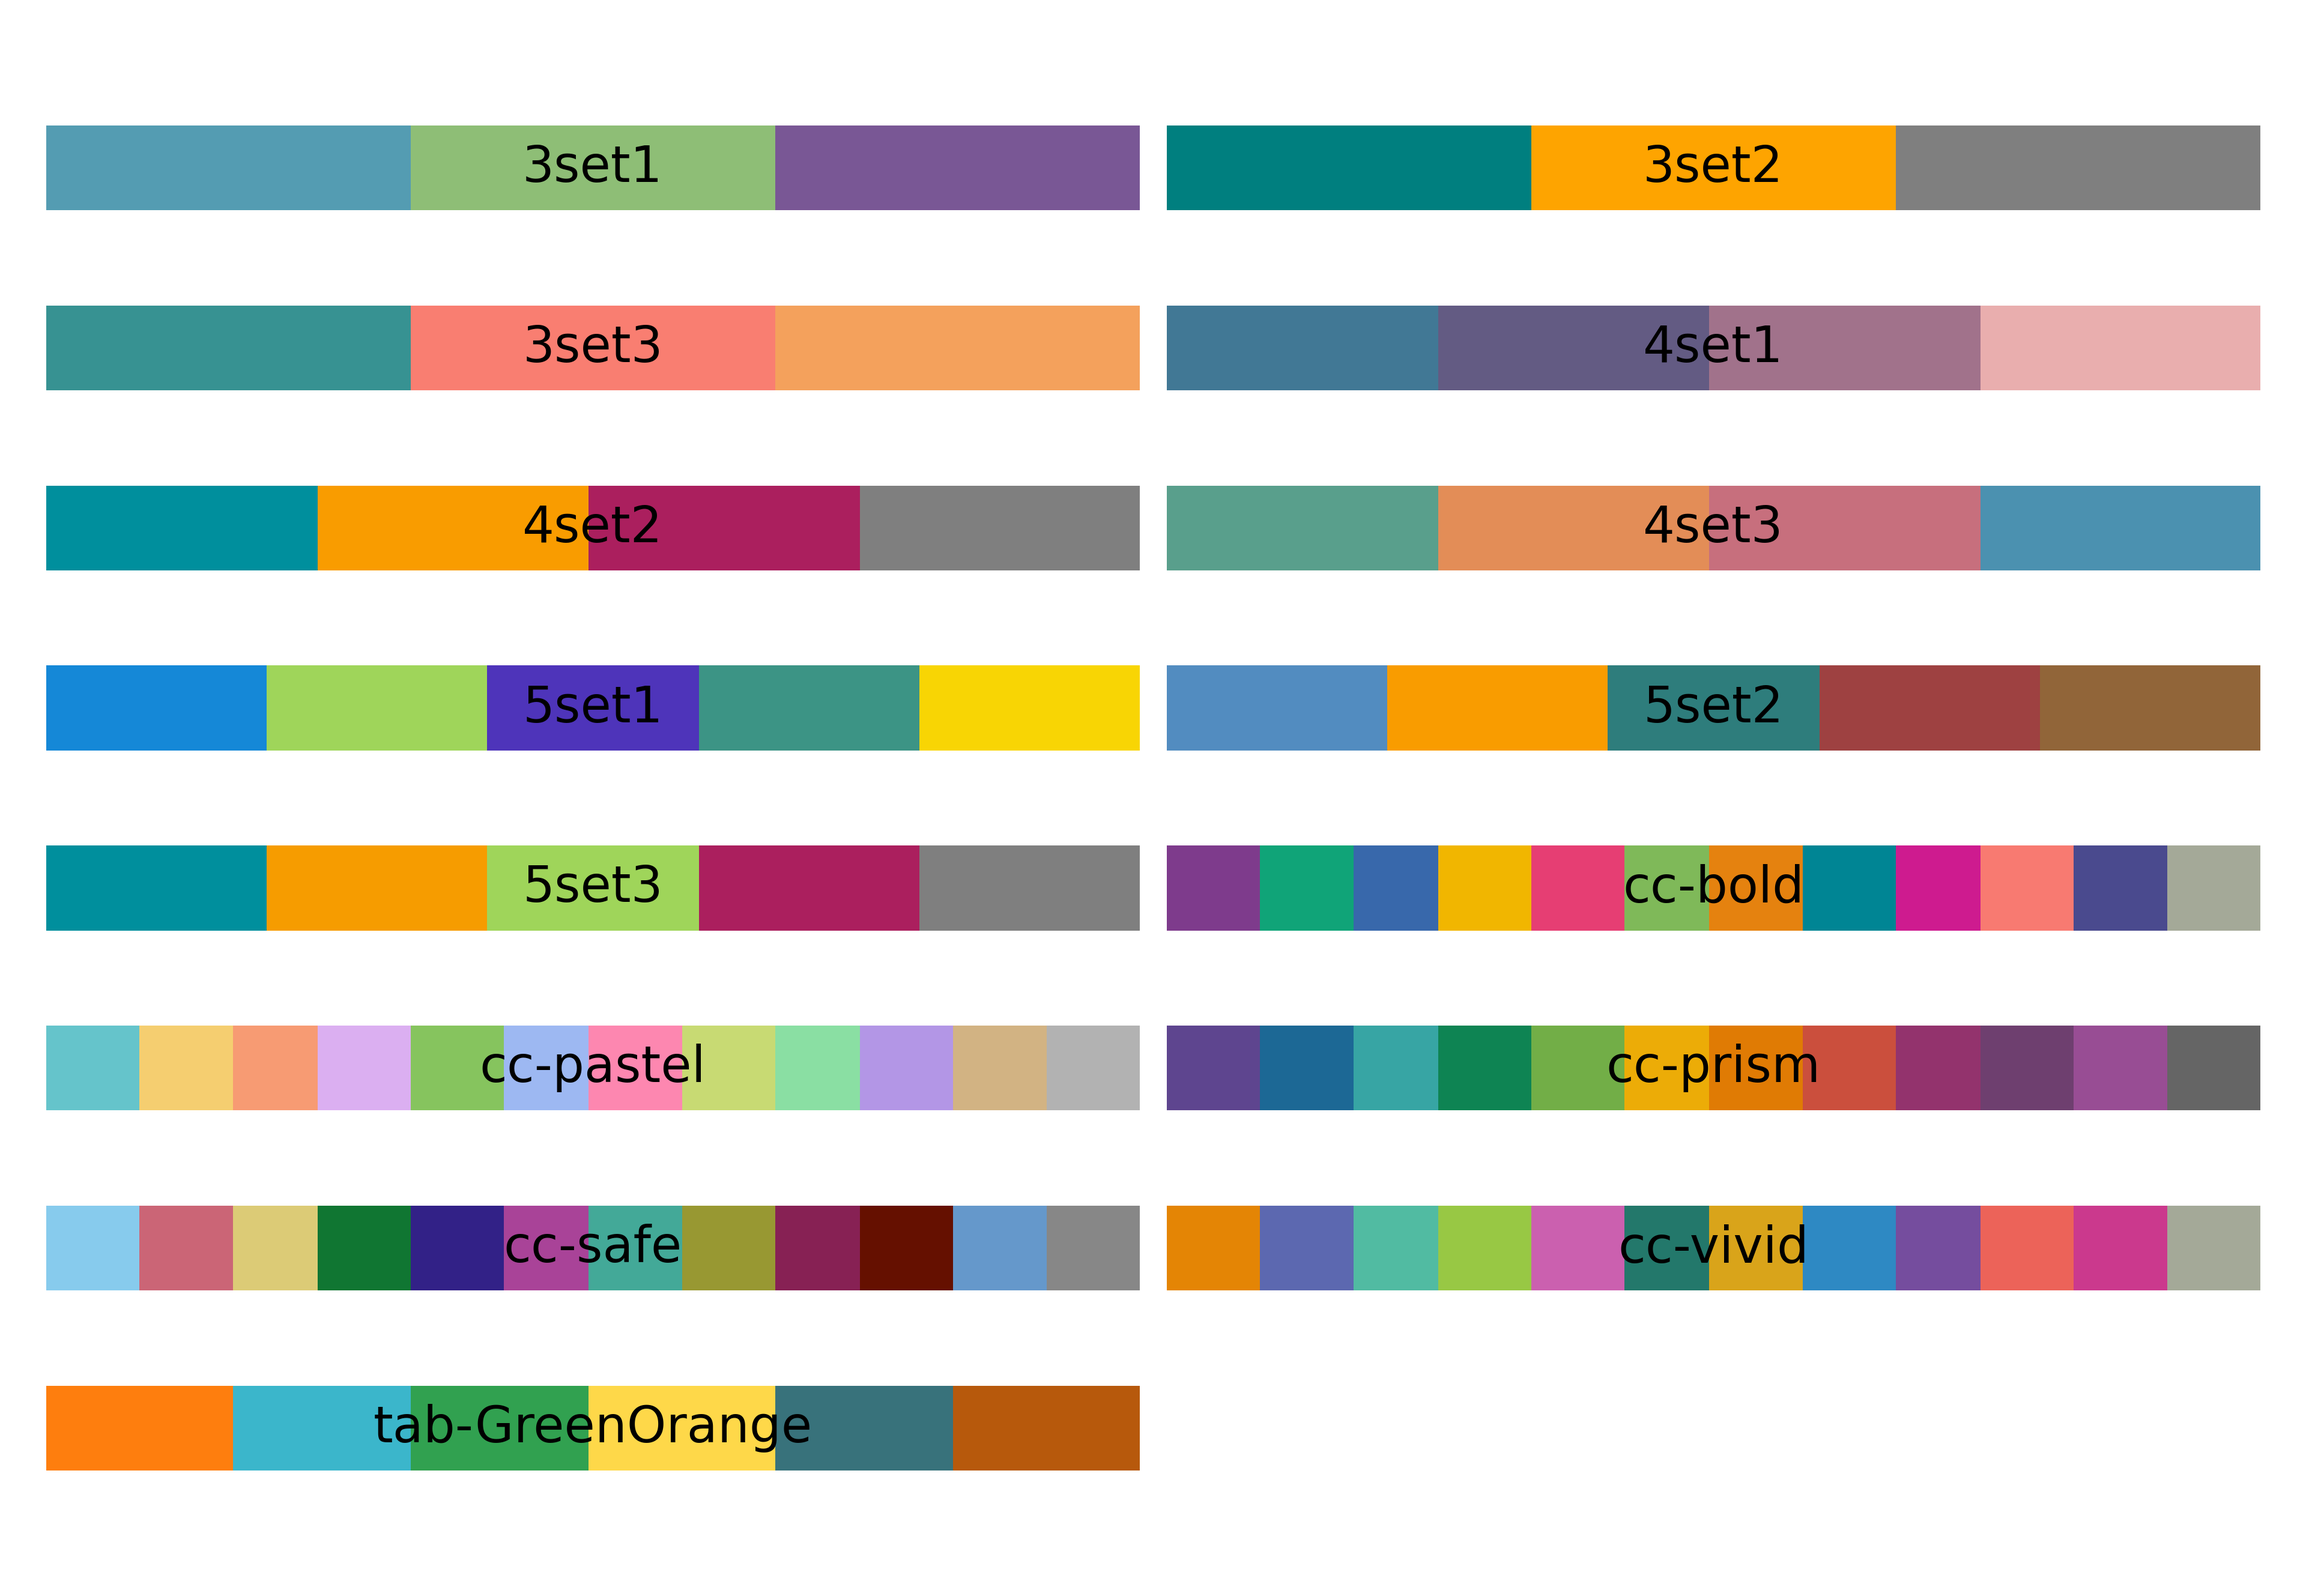
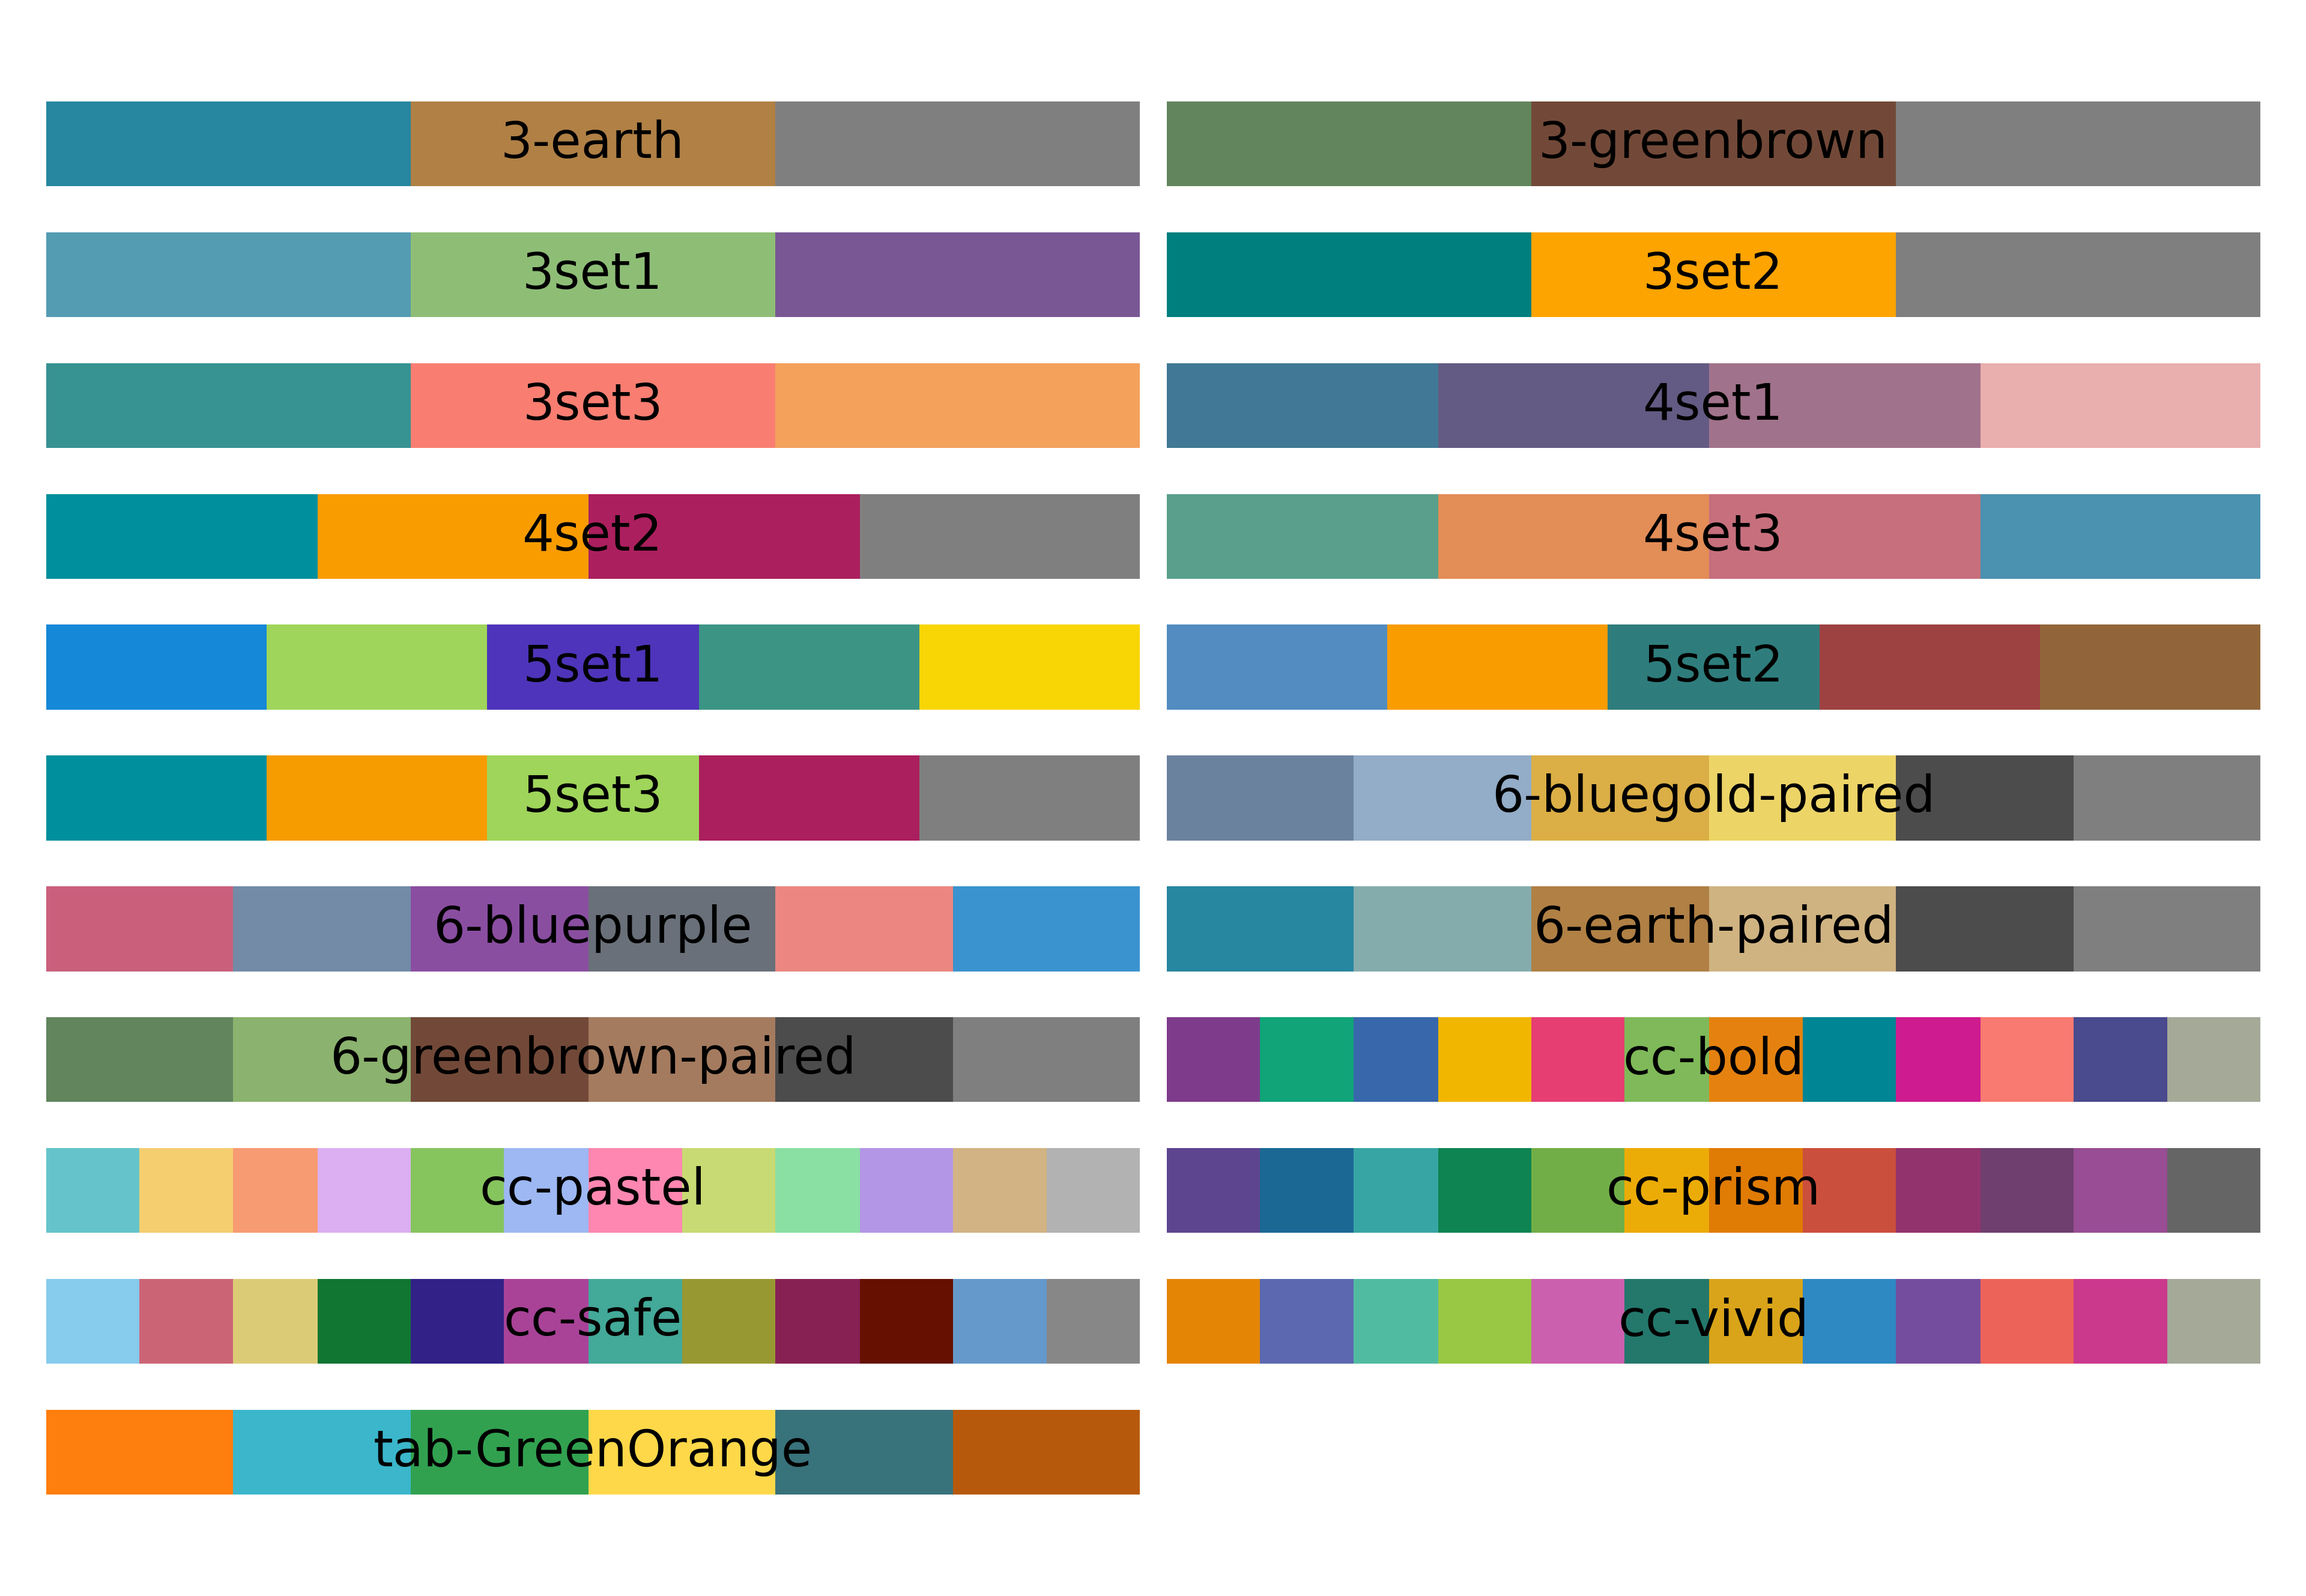
Add colour schemes

diff --git a/examples/make_greenbrown.py b/examples/make_greenbrown.py
@@ -1,0 +1,33 @@
+"""
+Test generating new colourschemes
+"""
+
+import numpy as np
+from matplotlib import pyplot as plt
+
+import colours
+
+cont_cmap = colours.get_colourmap('pl-green-brown-div')
+
+cc1 = cont_cmap(0.2)
+cc2 = cont_cmap(0.3)
+cc3 = cont_cmap(0.8)
+cc4 = cont_cmap(0.7)
+cc5 = 0.3*np.ones(4)
+cc6 = 0.5*np.ones(4)
+
+fig, ax = plt.subplots()
+xx = np.linspace(0, 1, 10)
+
+colours = np.array([cc1, cc2, cc3, cc4, cc5, cc6])
+colours[0] = colours[0]
+colours[:, -1] = 1
+
+print(colours)
+
+for i in range(colours.shape[0]):
+    ax.plot(xx, xx + np.random.random(xx.shape), color=colours[i])
+
+np.savetxt('../data/categorical/6-greenbrown-paired.txt', colours)
+np.savetxt('../data/categorical/3-greenbrown.txt', colours[np.array([0, 2, 5])])
+plt.show()

diff --git a/examples/make_bluepurple.py b/examples/make_bluepurple.py
@@ -1,0 +1,30 @@
+"""
+Test generating new colourschemes
+"""
+
+import numpy as np
+from matplotlib import pyplot as plt
+
+import colours
+
+cc1 = colours.get_colourmap('ccBurg')(0.5)
+cc2 = colours.get_colourmap('pl-blue-8')(0.5)
+cc3 = colours.get_colourmap('ccPurpOr')(0.8)
+cc4 = colours.get_colourmap('pl-blue-11')(0.8)
+cc5 = colours.get_colourmap('ccBurgYl')(0.35)
+cc6 = colours.get_colourmap('pl-blue-3')(0.3)
+
+fig, ax = plt.subplots()
+xx = np.linspace(0, 1, 10)
+
+colours = np.array([cc1, cc2, cc3, cc4, cc5, cc6])
+colours[0] = colours[0]
+colours[:, -1] = 1
+
+print(colours)
+
+for i in range(colours.shape[0]):
+    ax.plot(xx, xx + np.random.random(xx.shape), color=colours[i])
+
+np.savetxt('../data/categorical/6-bluepurple.txt', colours)
+plt.show()

diff --git a/examples/make_bluebrown.py b/examples/make_bluebrown.py
@@ -1,0 +1,33 @@
+"""
+Test generating new colourschemes
+"""
+
+import numpy as np
+from matplotlib import pyplot as plt
+
+import colours
+
+cont_cmap = colours.get_colourmap('ccEarth')
+
+cc1 = cont_cmap(1.0)
+cc2 = cont_cmap(0.8)
+cc3 = cont_cmap(0.1)
+cc4 = cont_cmap(0.3)
+cc5 = 0.3*np.ones(4)
+cc6 = 0.5*np.ones(4)
+
+fig, ax = plt.subplots()
+xx = np.linspace(0, 1, 10)
+
+colours = np.array([cc1, cc2, cc3, cc4, cc5, cc6])
+colours[0] = colours[0]
+colours[:, -1] = 1
+
+print(colours)
+
+for i in range(colours.shape[0]):
+    ax.plot(xx, xx + np.random.random(xx.shape), color=colours[i])
+
+np.savetxt('../data/categorical/6-earth-paired.txt', colours)
+np.savetxt('../data/categorical/3-earth.txt', colours[np.array([0, 2, 5])])
+plt.show()

diff --git a/examples/make_bluegold.py b/examples/make_bluegold.py
@@ -1,0 +1,38 @@
+"""
+Test generating new colourschemes
+"""
+
+import numpy as np
+from matplotlib import pyplot as plt
+
+import colours
+
+cont_cmap = colours.get_colourmap('pl-blue-8').reversed()
+
+cc1 = cont_cmap(0.45)
+cc2 = cont_cmap(0.65)
+
+cont_cmap2 = colours.get_colourmap('pl-YellowFields').reversed()
+
+cc3 = cont_cmap2(0.2)
+cc4 = cont_cmap2(0.6)
+
+cc5 = 0.3*np.ones(4)
+cc6 = 0.5*np.ones(4)
+
+cc5[-1] = 1
+cc6[-1] = 1
+
+
+fig, ax = plt.subplots()
+xx = np.linspace(0, 1, 10)
+
+colours = np.array([cc1, cc2, cc3, cc4, cc5, cc6])
+
+print(colours)
+
+for i in range(colours.shape[0]):
+    ax.plot(xx, xx + np.random.random(xx.shape), color=colours[i])
+
+np.savetxt('../data/categorical/6-bluegold-paired.txt', colours)
+plt.show()

diff --git a/__init__.py b/__init__.py
@@ -1,0 +1,1 @@
+from .colours import get_colourmap, get_colourscheme
